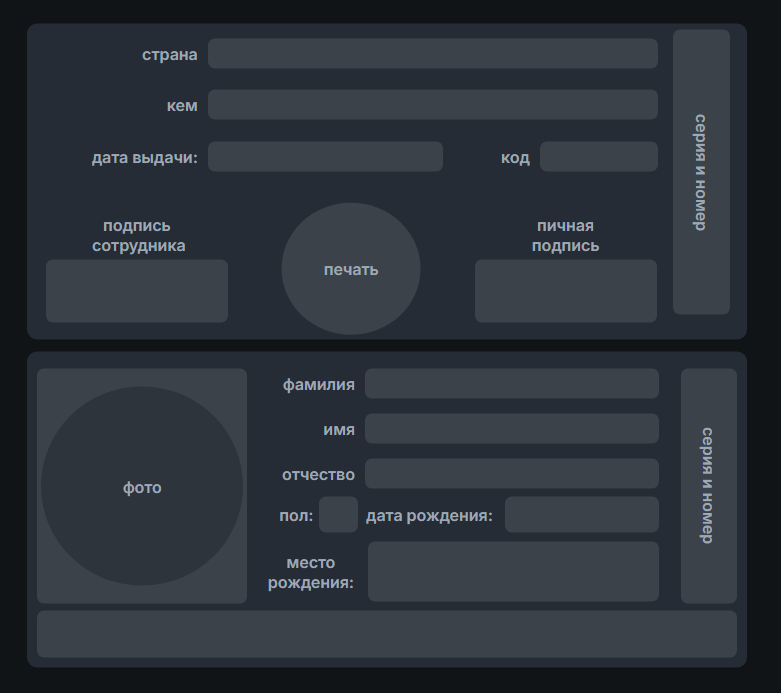
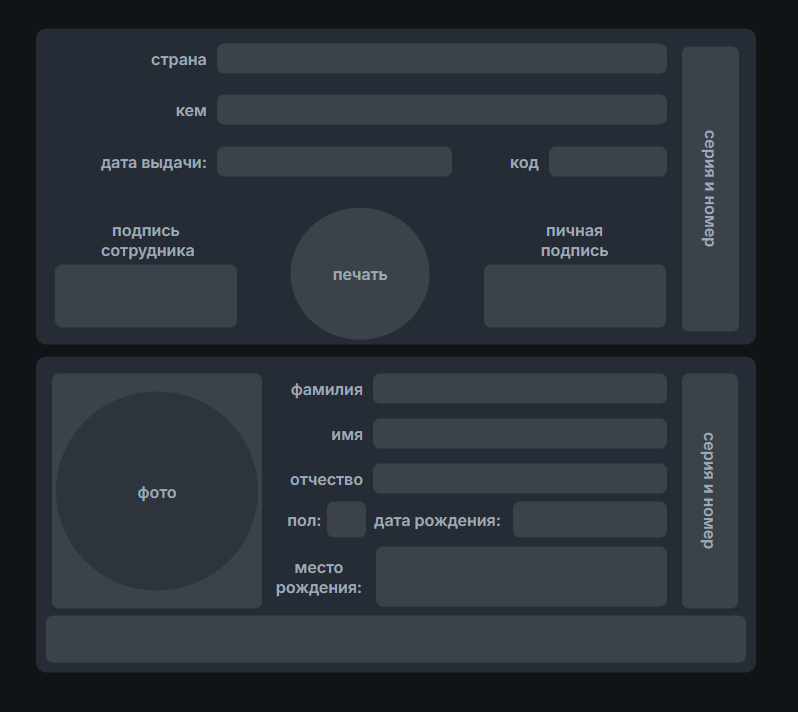
.

diff --git a/Passport/assets/style.css b/Passport/assets/style.css
@@ -245,6 +245,7 @@ span{
     height: 94%;
 
     position: relative;
+    margin-top: 16%;
 }
 .serial__title{
     writing-mode: vertical-lr;
@@ -316,7 +317,6 @@ span{
 .data__box{
     width: 60%;
     height: 97%;
-    margin: 0 1%;
 }
 
 /*   - start  ФИО  block -   */
@@ -414,6 +414,7 @@ span{
 .serial__box{
     width: 8%;
     height: 100%;
+    margin-right: 8px;
 }
 .serial__vertical_row {
     position: relative;
